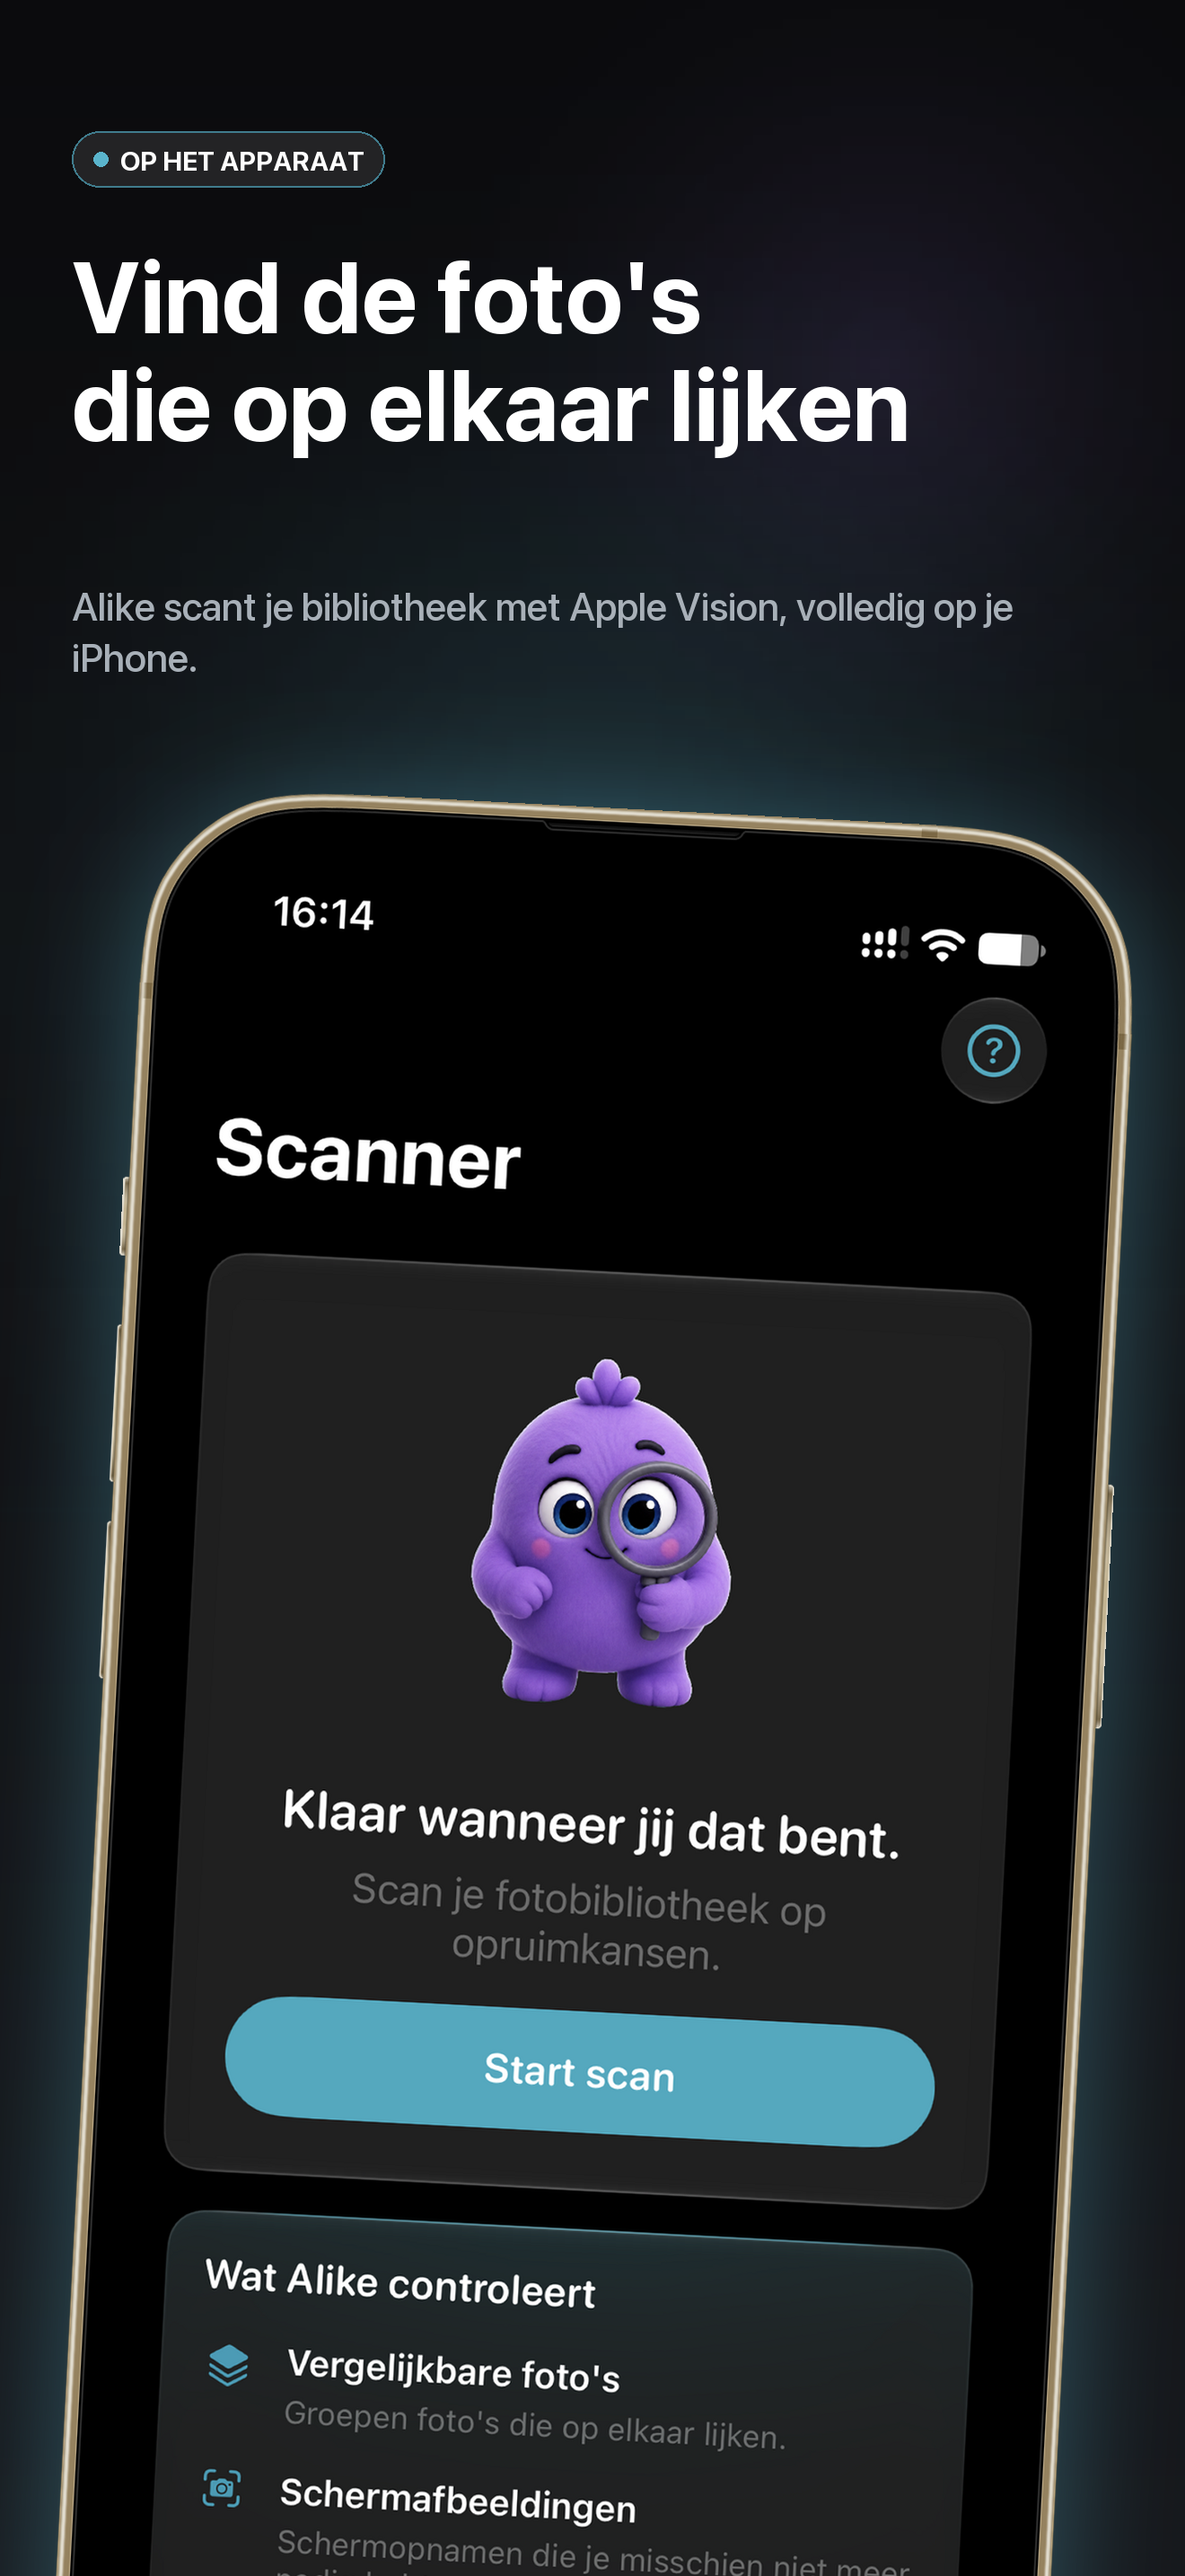
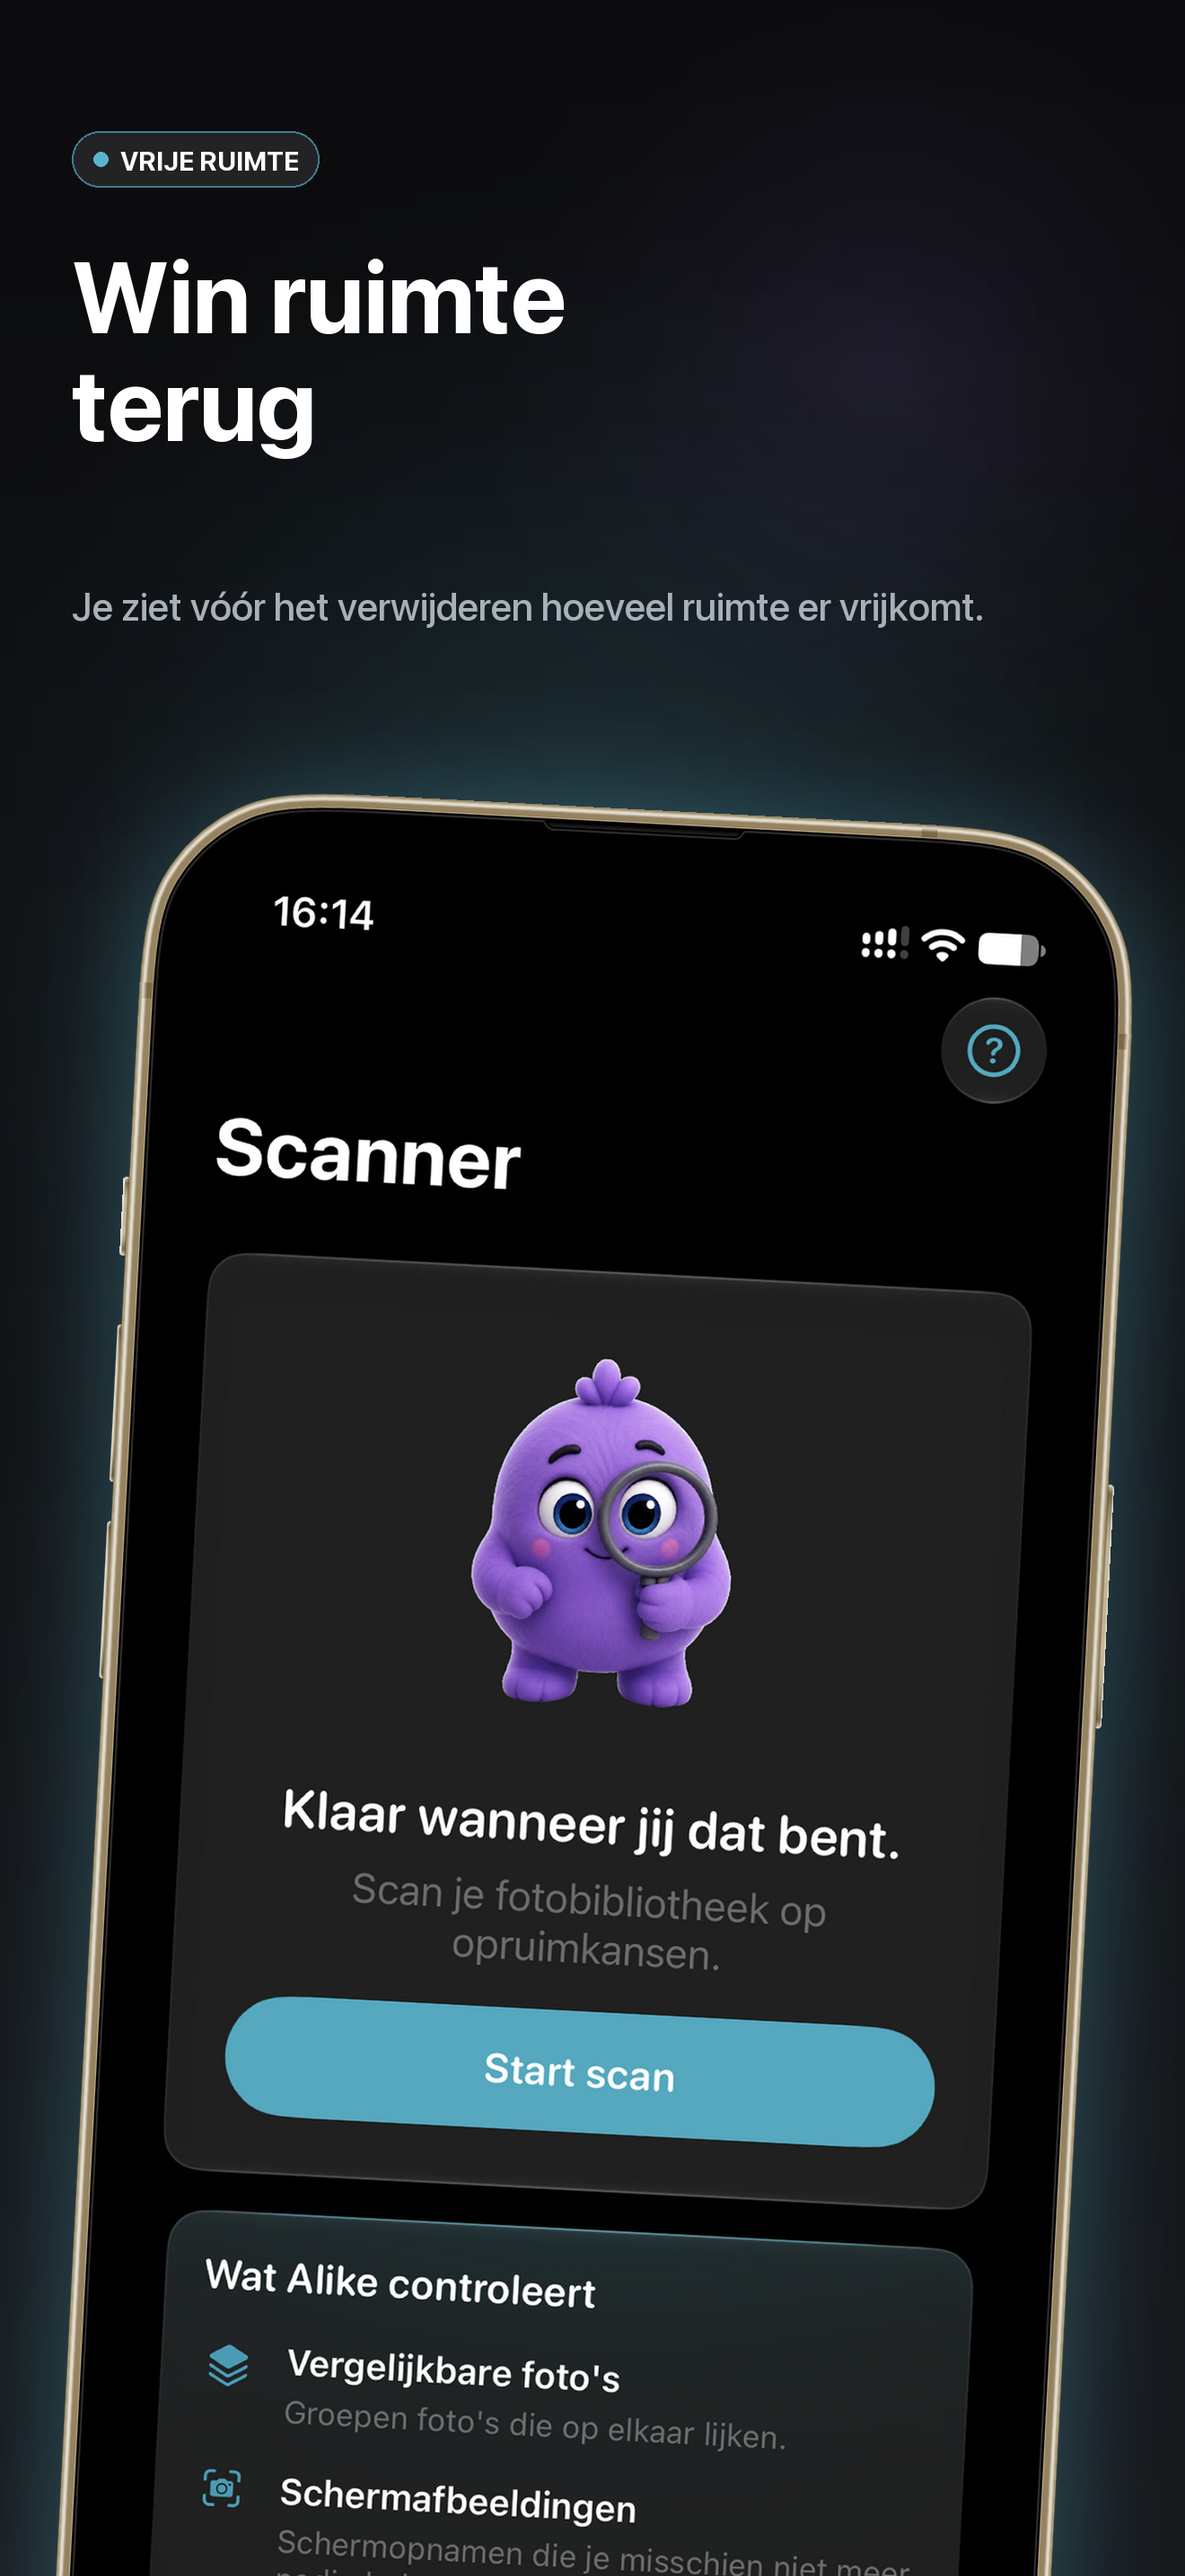
🖼 Screenshots: lead with free space on slide 1 in 14 locales
ASO stage 5: the owner decided on 30.09.2026 to skip the Product Page
Optimization test and swap slide 1 for variant A directly. At ~126
impressions a day a +20% effect needs ~123 days, past Apple's 90-day limit.

Slide 1 now sells the benefit instead of the mechanism: label FREE SPACE,
"Get your storage back", and that the space shows before anything is
deleted. The subtitle says "could free" to match the current promotional
text: the figure is an estimate. Translations reuse the vocabulary of each
locale's promotional text. Capture, layout and slides 2-7 are unchanged,
so only 01-scanner-idle.png is re-rendered.

Ships only with a new app version: screenshots of an approved version
cannot change without one.

Changed region(s): [[0.0621, 0.0621, 0.7765, 0.1862], [0.0621, 0.2172, 0.8386, 0.2793]]

diff --git a/tools/generate_app_store_product_screenshots.py b/tools/generate_app_store_product_screenshots.py
@@ -269,9 +269,9 @@ SLIDES = (
 COPY = {
     "en-US": [
         (
-            "ON-DEVICE",
-            "Find the photos\nthat look alike",
-            "Alike scans your library with Apple Vision, entirely on your iPhone.",
+            "FREE SPACE",
+            "Get your\nstorage back",
+            "See how much space you could free before anything is deleted.",
         ),
         (
             "ONE QUEUE",
@@ -306,9 +306,9 @@ COPY = {
     ],
     "uk": [
         (
-            "НА ПРИСТРОЇ",
-            "Знайдіть схожі\nфотографії",
-            "Alike сканує фототеку через Apple Vision повністю на вашому iPhone.",
+            "ВІЛЬНЕ МІСЦЕ",
+            "Поверніть\nсобі місце",
+            "Видно, скільки місця можна звільнити, ще до видалення.",
         ),
         (
             "ЧЕРГА",
@@ -348,9 +348,9 @@ COPY = {
     # as small text rather than as an error.
     "de": [
         (
-            "AUF DEM GERÄT",
-            "Finde die Fotos,\ndie sich ähneln",
-            "Alike durchsucht deine Mediathek mit Apple Vision, ganz auf dem iPhone.",
+            "FREIER PLATZ",
+            "Hol dir deinen\nSpeicher zurück",
+            "Du siehst vor dem Löschen, wie viel Platz frei werden kann.",
         ),
         (
             "EINE LISTE",
@@ -385,9 +385,9 @@ COPY = {
     ],
     "fr": [
         (
-            "SUR L’APPAREIL",
-            "Trouvez les photos\nqui se ressemblent",
-            "Alike analyse votre photothèque avec Apple Vision, sur votre iPhone.",
+            "ESPACE LIBRE",
+            "Récupérez\nde l’espace",
+            "Voyez combien d’espace vous libérez avant toute suppression.",
         ),
         (
             "UNE SEULE FILE",
@@ -426,9 +426,9 @@ COPY = {
     # for es and es-419 alike.
     "es": [
         (
-            "EN EL DISPOSITIVO",
-            "Encuentra las fotos\nque se parecen",
-            "Alike analiza tu fototeca con Apple Vision, todo en tu iPhone.",
+            "ESPACIO LIBRE",
+            "Recupera\nespacio",
+            "Ves cuánto espacio liberas antes de borrar nada.",
         ),
         (
             "UNA SOLA COLA",
@@ -463,9 +463,9 @@ COPY = {
     ],
     "es-419": [
         (
-            "EN EL DISPOSITIVO",
-            "Encuentra las fotos\nque se parecen",
-            "Alike analiza tu fototeca con Apple Vision, todo en tu iPhone.",
+            "ESPACIO LIBRE",
+            "Recupera\nespacio",
+            "Ves cuánto espacio liberas antes de eliminar nada.",
         ),
         (
             "UNA SOLA COLA",
@@ -500,9 +500,9 @@ COPY = {
     ],
     "pt-BR": [
         (
-            "NO DISPOSITIVO",
-            "Encontre as fotos\nque se parecem",
-            "O Alike analisa sua fototeca com Apple Vision, no seu iPhone.",
+            "ESPAÇO LIVRE",
+            "Recupere\nespaço",
+            "Veja quanto espaço vai liberar antes de apagar qualquer coisa.",
         ),
         (
             "UMA SÓ FILA",
@@ -540,9 +540,9 @@ COPY = {
     # "ecrã", "eliminar", "rever", "poupança".
     "pt-PT": [
         (
-            "NO DISPOSITIVO",
-            "Encontra fotografias\nparecidas",
-            "O Alike analisa a tua fototeca com Apple Vision, no teu iPhone.",
+            "ESPAÇO LIVRE",
+            "Recupera\nespaço",
+            "Vê quanto espaço vais libertar antes de eliminar qualquer coisa.",
         ),
         (
             "UMA SÓ FILA",
@@ -577,9 +577,9 @@ COPY = {
     ],
     "it": [
         (
-            "SUL DISPOSITIVO",
-            "Trova le foto\nche si somigliano",
-            "Alike analizza la libreria con Apple Vision, tutto sul tuo iPhone.",
+            "SPAZIO LIBERO",
+            "Recupera\nspazio",
+            "Vedi quanto spazio liberi prima di eliminare qualcosa.",
         ),
         (
             "UNA SOLA CODA",
@@ -614,9 +614,9 @@ COPY = {
     ],
     "nl": [
         (
-            "OP HET APPARAAT",
-            "Vind de foto's\ndie op elkaar lijken",
-            "Alike scant je bibliotheek met Apple Vision, volledig op je iPhone.",
+            "VRIJE RUIMTE",
+            "Win ruimte\nterug",
+            "Je ziet vóór het verwijderen hoeveel ruimte er vrijkomt.",
         ),
         (
             "ÉÉN WACHTRIJ",
@@ -651,9 +651,9 @@ COPY = {
     ],
     "pl": [
         (
-            "NA URZĄDZENIU",
-            "Znajdź zdjęcia,\nktóre są podobne",
-            "Alike skanuje bibliotekę za pomocą Apple Vision, w całości na iPhonie.",
+            "WOLNE MIEJSCE",
+            "Odzyskaj\nmiejsce",
+            "Zobacz, ile miejsca możesz zwolnić, zanim cokolwiek usuniesz.",
         ),
         (
             "JEDNA KOLEJKA",
@@ -688,9 +688,9 @@ COPY = {
     ],
     "tr": [
         (
-            "CİHAZDA",
-            "Birbirine benzeyen\nfotoğrafları bul",
-            "Alike, fotoğraf arşivini Apple Vision ile tamamen iPhone'unda tarar.",
+            "BOŞ ALAN",
+            "Depolama alanını\ngeri kazan",
+            "Silmeden önce ne kadar alan açılacağını gör.",
         ),
         (
             "TEK KUYRUK",
@@ -728,9 +728,9 @@ COPY = {
     # out. LOCALE_HEADLINE_SIZE starts this deck smaller; see the note there.
     "zh-Hant": [
         (
-            "在裝置上",
-            "找出看起來\n相像的照片",
-            "Alike 以 Apple Vision 掃描你的圖庫，全程在 iPhone 上完成。",
+            "騰出空間",
+            "把儲存空間\n拿回來",
+            "刪除之前，就能看到可以釋出多少空間。",
         ),
         (
             "同一條佇列",
@@ -765,9 +765,9 @@ COPY = {
     ],
     "ar": [
         (
-            "على الجهاز",
-            "اعثر على الصور\nالمتشابهة",
-            "يفحص Alike مكتبتك بتقنية Apple Vision، والعملية كلها على جهاز iPhone.",
+            "مساحة حرة",
+            "استرجع\nمساحة التخزين",
+            "اعرف المساحة التي ستوفرها قبل حذف أي شيء.",
         ),
         (
             "قائمة واحدة",
@@ -851,8 +851,9 @@ DEFAULT_VARIANT = "spotlight"  # the direction shipping on the listing
 # (ASO stage 5). The first three slides are the ones search results show. Each
 # candidate replaces the copy of slide 1 only — same capture, same order, same
 # slides 2 and 3 — so a difference in conversion has one explanation. en-US
-# only until a winner exists; `COPY` stays what ships. No gigabyte figure: the
-# app has no measured one to promise.
+# only. Owner decision 30.09.2026: no store test, A ships as slide 1 of `COPY`
+# in every locale; the entry stays so --lead-variants can still render it. No
+# gigabyte figure: the app has no measured one to promise.
 LEAD_SLIDE_COUNT = 3
 LEAD_VARIANT_LOCALE = "en-US"
 LEAD_VARIANTS = {
